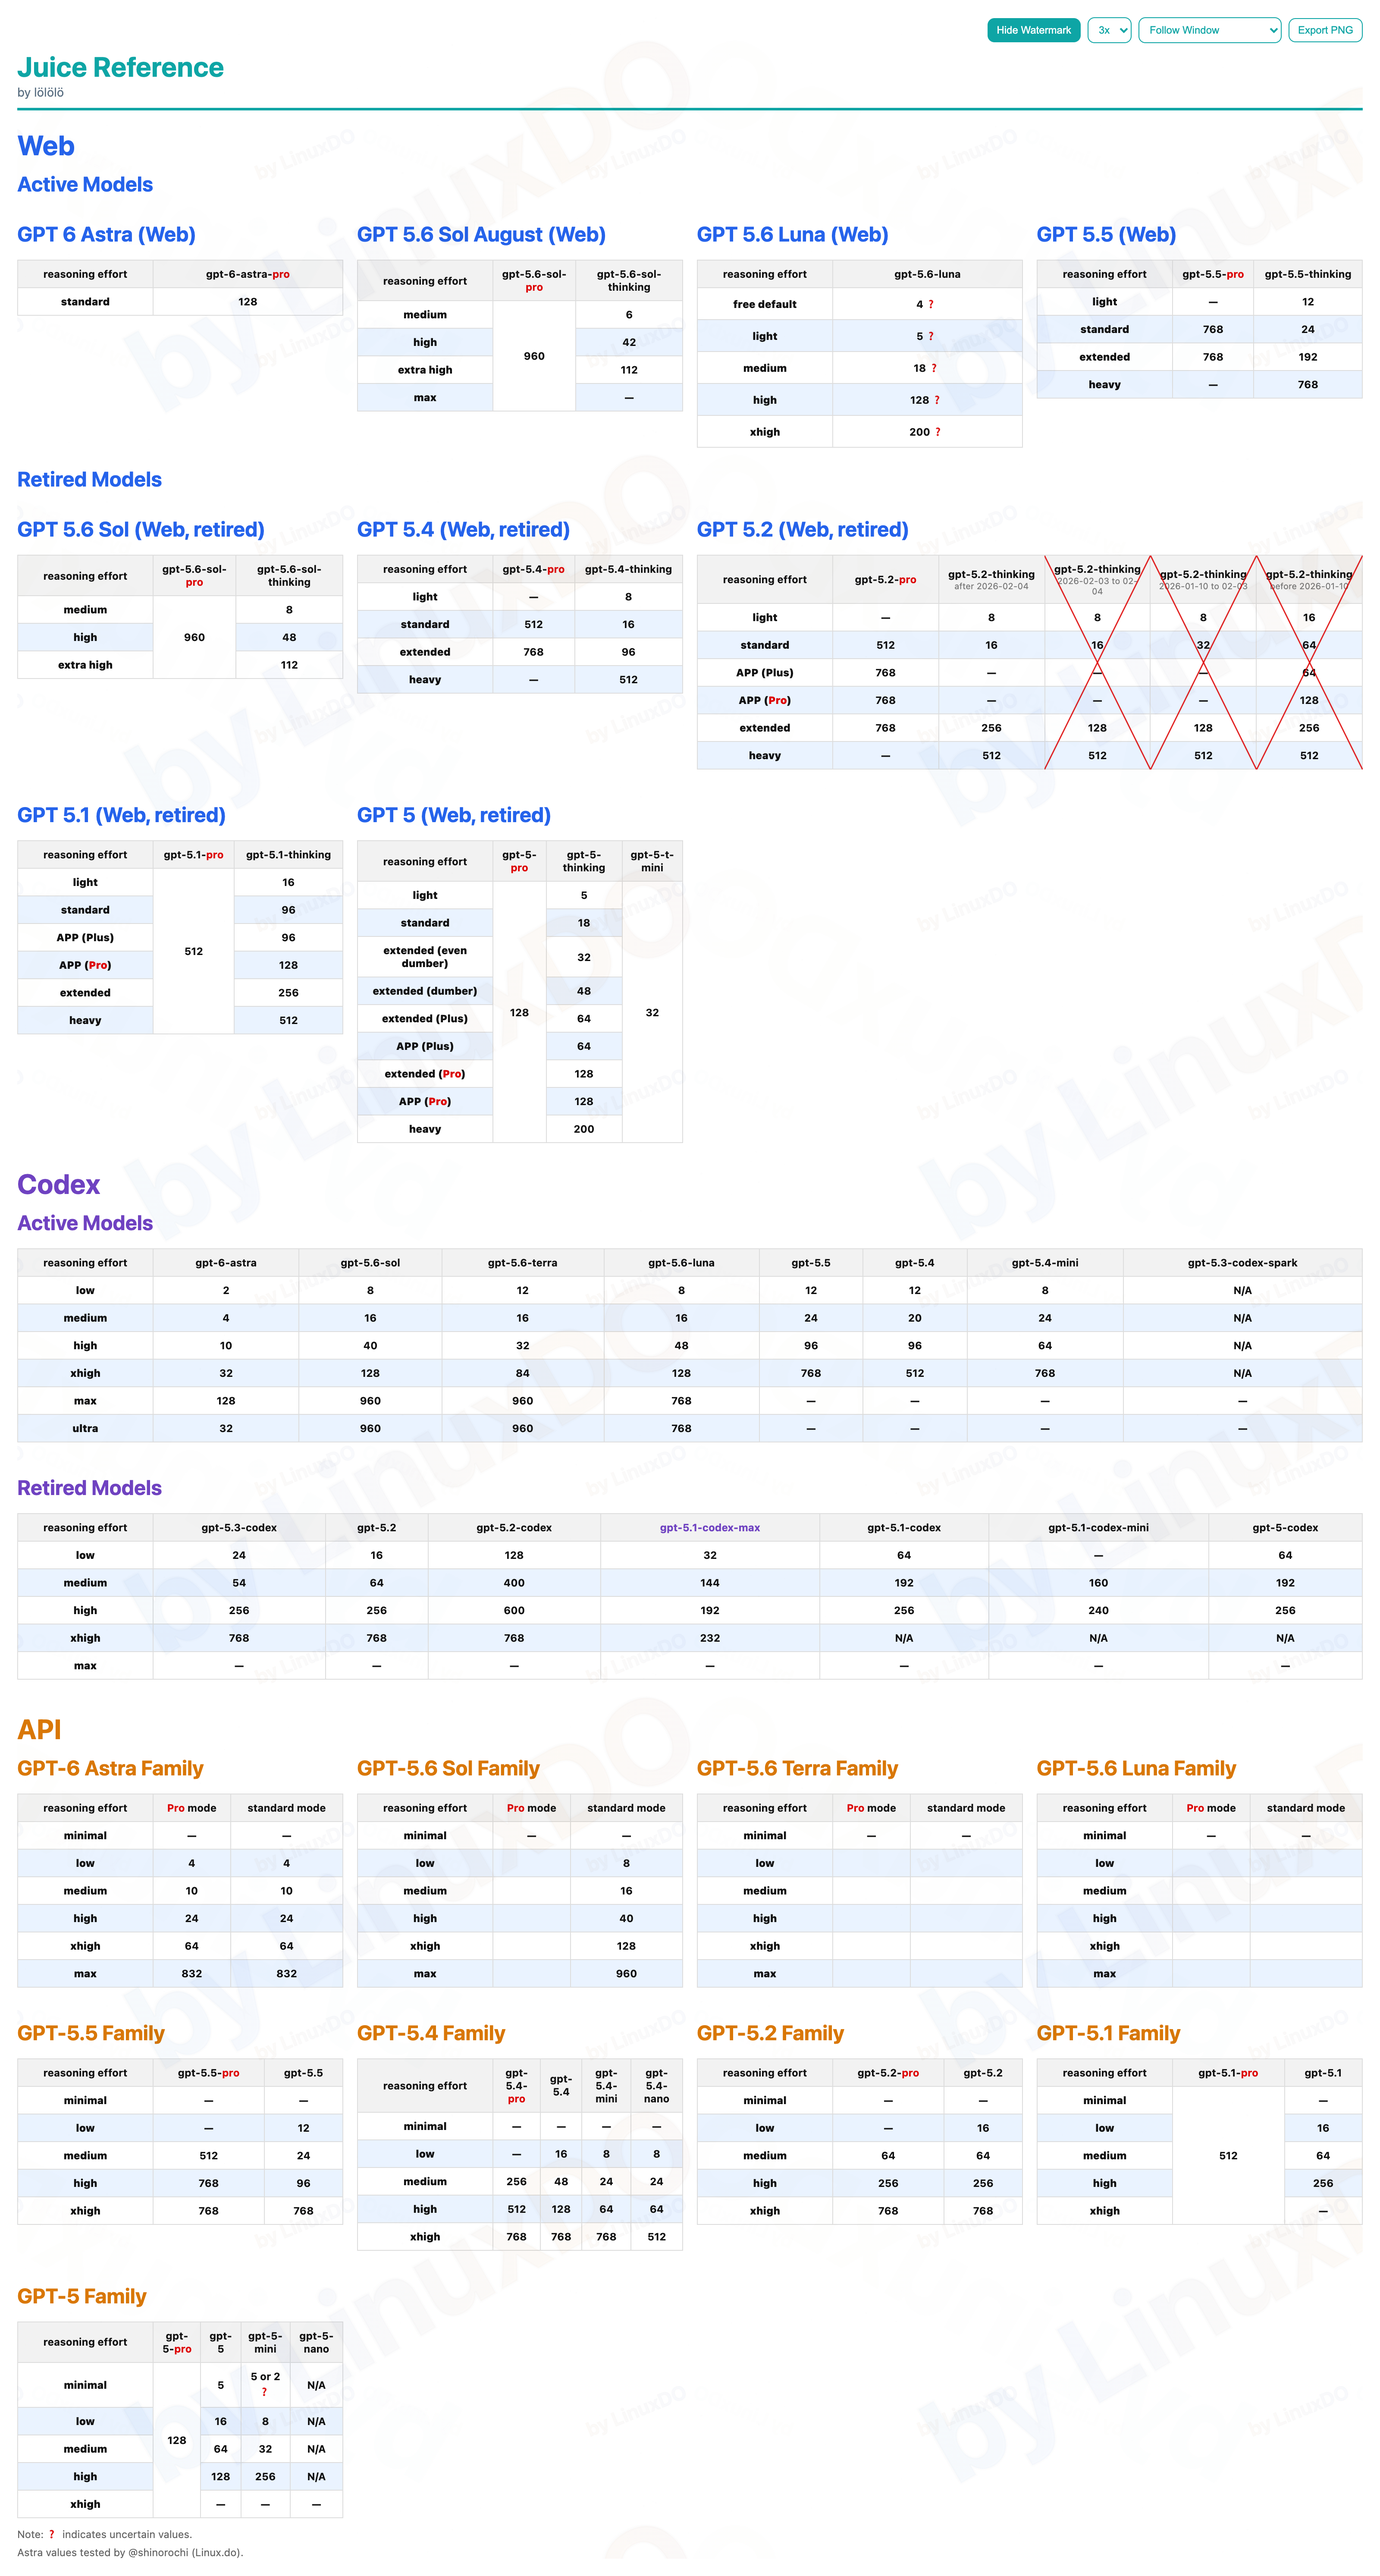
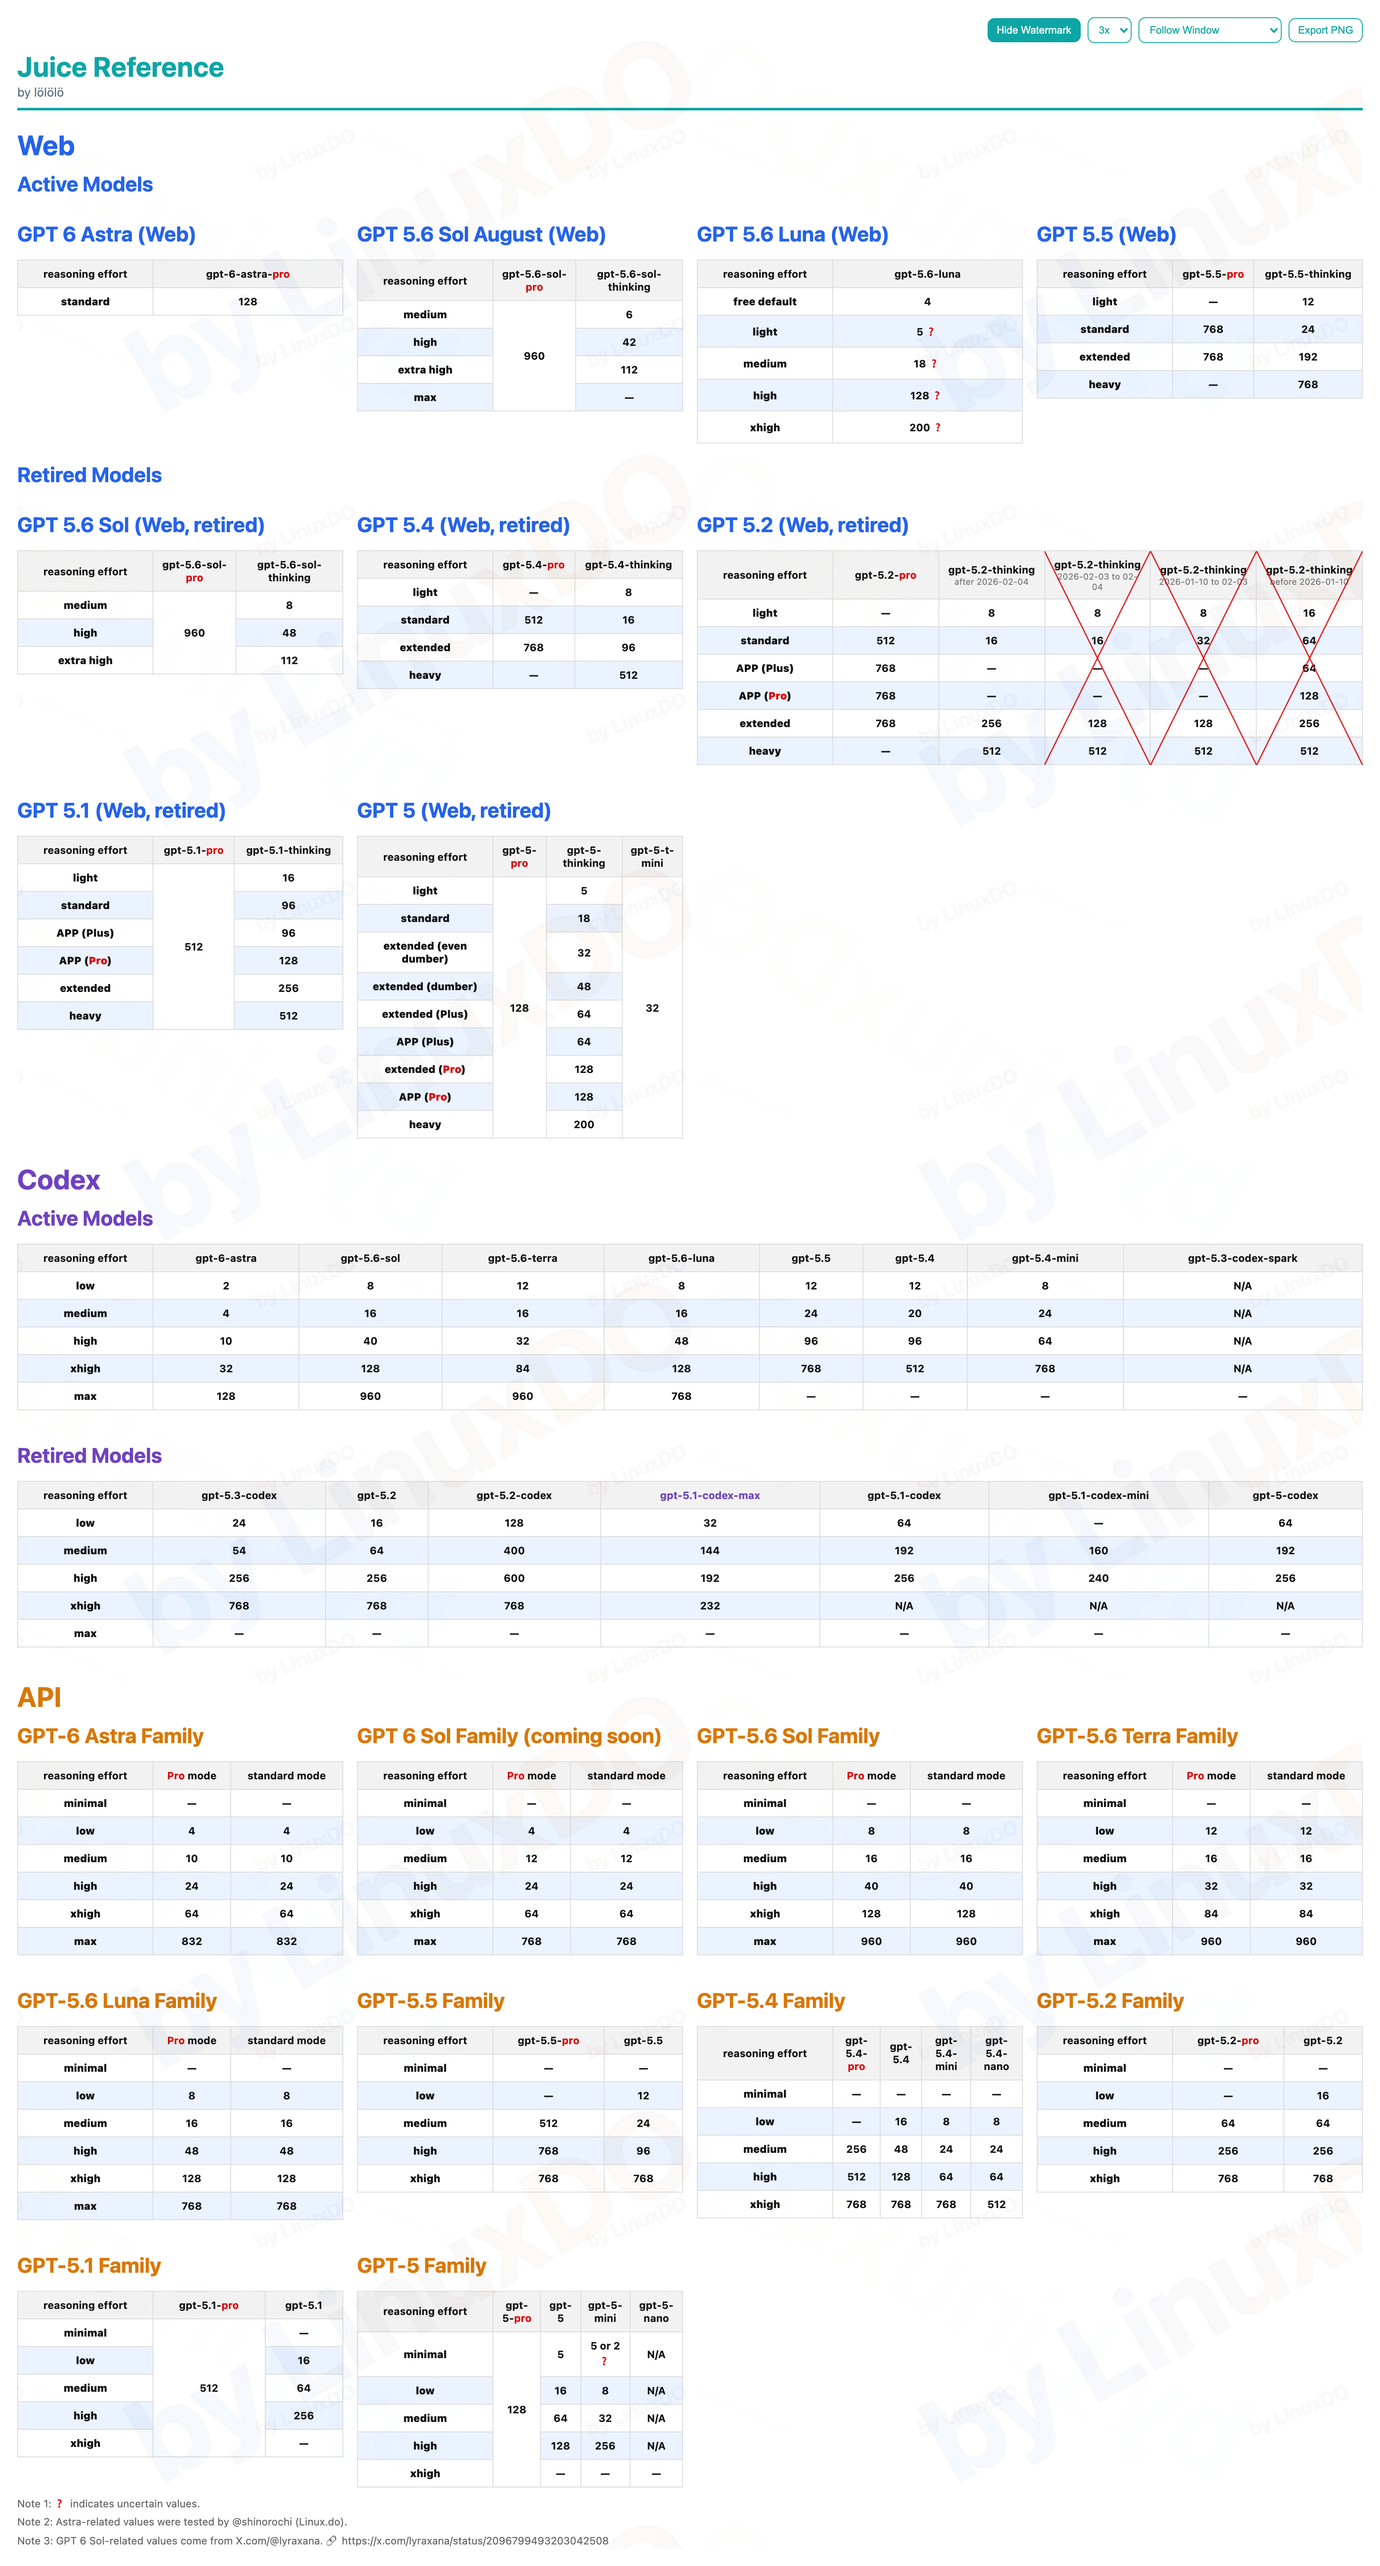
Update bilingual Juice charts with GPT 6 Sol values and coming soon labels

diff --git a/README.md b/README.md
@@ -6,7 +6,7 @@ Maintenance rules for future GPT editors:
 2) The second line must stay as the Linux.Do website link.
 -->
 
-2026.09.07-1
+2026.09.07-2
 
 [Linux.Do](https://linux.do)
 
